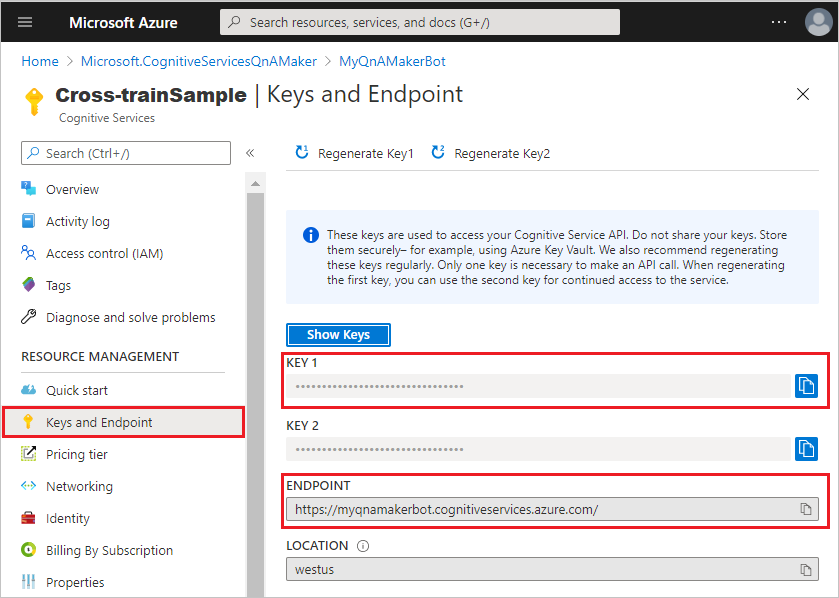
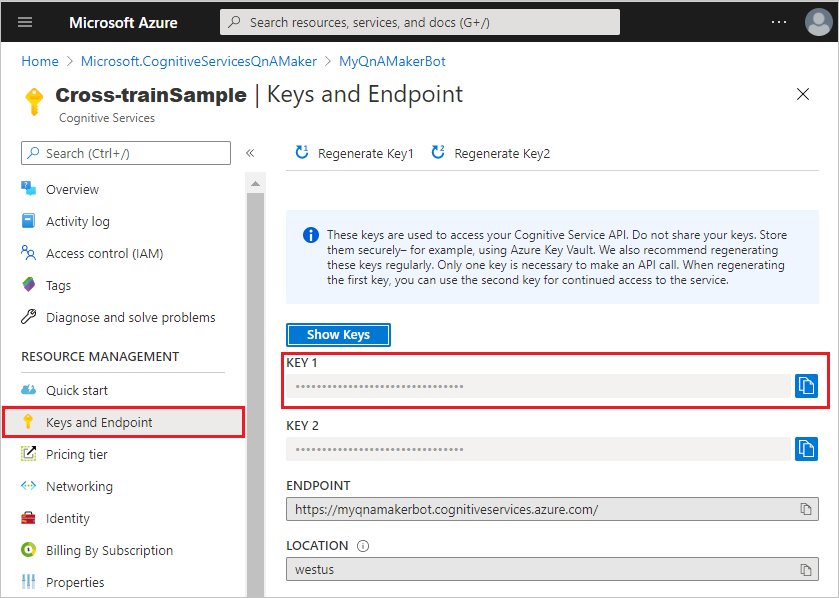
updated to the section on creating the azure cognative resources.

Changed region(s): [[0.3409, 0.7826, 0.9917, 0.903], [0.3099, 0.8127, 0.3409, 0.8729]]

diff --git a/articles/v4sdk/bot-builder-howto-cross-train.md b/articles/v4sdk/bot-builder-howto-cross-train.md
@@ -15,13 +15,13 @@ monikerRange: 'azure-bot-service-4.0'
 
 [!INCLUDE [applies-to-v4](../includes/applies-to.md)]
 
-This how to article will walk you through the steps required to create a bot that integrates the capabilities of both [LUIS][luis] and [QnA Maker][qnamaker] together in order to determine the best possible response to the user, using [Language Generation][language-generation], and tying all these features together into a ToDo bot.
+This how to article will walk you through the steps required to create a bot that integrates the capabilities of both [LUIS][luis] and [QnA Maker][qnamaker] together in order to determine the best possible response to the user, using [language generation][language-generation], and tying all these features together into a ToDo bot.
 
 Integrating the capabilities of both [LUIS][luis] and [QnA Maker][qnamaker] together requires the use of the [CreateCrossTrainedRecognizer][createcrosstrainedrecognizer].
 
 ## Prerequisites
 
-This article will walk you through the steps required to create a fully functional bot using adaptive dialogs. In order to accomplish this, you will need to understand the various concepts involved. Before you begin, you should have a solid basic understanding of the following concepts:
+This article will walk you through the steps required to create a fully functional bot using adaptive dialogs, demonstrated using the [The Todo bot with LUIS and QnA Maker sample](#the-todo-bot-with-luis-and-qna-maker-sample). In order to accomplish this, you will need to understand the various concepts involved. Before you begin, you should have a solid basic understanding of the following concepts:
 
 - [Introduction to adaptive dialogs](bot-builder-adaptive-dialog-introduction.md)
 - [Events and triggers in adaptive dialogs](bot-builder-concept-adaptive-dialog-triggers.md)
@@ -34,10 +34,7 @@ This article will walk you through the steps required to create a fully function
 - [.lu file format][lu-templates]
 - [.qna file format][qna-file-format]
 
-You will also need an Azure account and the sample code:
-
-- If you don't have an Azure subscription, you can [Create your Azure free account]][create-azure-account] before you begin.
-- For sample code, this article references the adaptive **Todo bot with LUIS and QnA Maker** sample in [**C#**](https://aka.ms/cs-adaptive-multi-turn-sample).
+You will also need an [Azure account][create-azure-account].
 
 ## What is covered
 
@@ -47,7 +44,6 @@ This article describes how to create a bot that is cross trained to use both LUI
 1. [Create your LUIS authoring resource in Azure Cognitive Services](#create-your-luis-authoring-resource-in-azure)
 1. [Create your QnA Maker resource in Azure Cognitive Services](#create-your-qna-maker-resource-in-azure-cognitive-services)
 1. [Install the Bot Framework SDK CLI](#install-the-bot-framework-cli)
-<!--1. [Create the schema file](#create-the-schema-file)-->
 1. [Generate cross-trained LU models](#generate-cross-trained-lu-models)
 1. [Create and publish LUIS applications using the build command](#create-and-publish-luis-applications-using-the-build-command)
 1. [Create and publish QnA Maker knowledge bases using the build command](#create-and-publish-qna-maker-knowledge-bases-using-the-build-command)
@@ -56,13 +52,13 @@ This article describes how to create a bot that is cross trained to use both LUI
 
 ## The Todo bot with LUIS and QnA Maker sample
 
-The adaptive **Todo bot with LUIS and QnA Maker** ([**C#**](https://aka.ms/cs-adaptive-multi-turn-sample)) sample has five `.lu` files, six `.qna` files and six `.lg` files. When creating the cross-trained language understanding models you will combine the `.lu` and `.qna` files in a way that will enable you to utilize the capabilities of both LUIS and QnA Maker together in the same recognizer, enabling you to train the recognizer how best to interpret and respond to a users request. After running the cross-train command you will have the same number of each file, but they will be updated so that the `.lu` file contains the required `.qna` information and the `.qna` files contains the required `.lu` information to enable the [Cross-trained recognizer set][crosstrainedrecognizerset] to work.
+The adaptive **Todo bot with LUIS and QnA Maker** ([**C#**][cs-sample]) sample has five `.lu` files, six `.qna` files and six `.lg` files. When creating the cross-trained language understanding models you will combine the `.lu` and `.qna` files in a way that will enable you to utilize the capabilities of both LUIS and QnA Maker together in the same recognizer, enabling you to train the recognizer how best to interpret and respond to a users request. After running the cross-train command you will have the same number of each file, but they will be updated so that the `.lu` file contains the required `.qna` information and the `.qna` files contains the required `.lu` information to enable the [Cross-trained recognizer set][crosstrainedrecognizerset] to work.
 
 To clone the samples repository, enter the following git command from a console window: `git clone https://github.com/Microsoft/botbuilder-samples.git`
 
 ## Create your LUIS authoring resource in Azure
 
-The LUIS authoring resource is an [Azure Cognitive Services][cognitive-services-overview] resource that you create using Azure's [Create LUIS Cognitive Services][create-cognitive-services-luis] page. You can think of this as a container for your LUIS applications and the model, or models that those LUIS applications are comprised of. The LUIS authoring resource provides a secure way to author your LUIS resources.  You need this to be able to perform the tasks such as create, update, train, and publish a LUIS application that are required to enable LUIS functionality in your bot.
+If you don't already have a LUIS authoring resource you want to use for this, you can follow the steps below to create one. For an in-depth explanation of this process, see the article [Deploy LUIS resources using the Bot Framework LUIS CLI commands][create-your-luis-authoring-resource-in-azure].
 
 1. Go to the Azure [Create LUIS Cognitive Services][create-cognitive-services-luis] page.  
 2. In the **Create options** section, select **Authoring** to create a LUIS authoring resource.
@@ -73,47 +69,28 @@ The LUIS authoring resource is an [Azure Cognitive Services][cognitive-services-
 
    ![Set Create cognitive services image](./media/adaptive-dialogs/create-cognitive-services-cross-trainsample.png)
 
-    > [!NOTE]
-    > When entering the **Resource Group** and **Name**, keep in mind that you cannot change these values later. Also note that the value you give for **Name** is not only the name of your LUIS service, it is also the custom domain name in your endpoint and will be part of your **Endpoint URL**.
-
 4. Review the values to ensure they are correct, then select the **Create** button.
 
-The LUIS authoring resource includes information needed to create or access your LUIS application:
+The LUIS authoring resource will contain the information needed when running the [build command](#create-and-publish-luis-applications-using-the-build-command) or updating your bots [configuration file](#update-your-projects-configuration-file-to-include-connection-information-for-luis-and-qna-maker). Once the resource is created, you can find the following information in the **Keys and Endpoint** blade in your LUIS authoring resource:
 
-- **Keys**. These are generally referred  to as _subscription keys_. You may also see them referred to as _authoring keys_ since they refer to keys in the LUIS authoring resource as opposed to the [LUIS prediction resource][luis-prediction-resource]. These keys are auto generated. You will need an authoring key when referencing your LUIS authoring resource for any action, such as when creating your LUIS Application. You can find the keys in the **Keys and Endpoint** blade in your LUIS authoring resource.
-- **Endpoint**. This is auto-generated using the LUIS authoring resource name that you provide when creating it. It has the following format: `https://<luis-resource-name>.cognitiveservices.azure.com/`. When referencing your LUIS authoring resource for any action, such as when creating your LUIS App and Models which will be detailed in this article. You can find the key in the **Keys and Endpoint** blade in your LUIS authoring resource.
-- **Location**.   This is the Azure region that contains your LUIS authoring resource. You select this when creating the LUIS authoring resource.
+- **Keys**. Either of the two key values are used as the _subscriptionKey_ option in the [build command](#create-and-publish-luis-applications-using-the-build-command), as well as the _LuisAPIKey_ in your [configuration file](#update-your-projects-configuration-file-to-include-connection-information-for-luis-and-qna-maker).
+- **Endpoint**. This is the value that is used as the _endpoint_ option in the [build command](#create-and-publish-luis-applications-using-the-build-command), as well as the _LuisAPIHostName_ in your [configuration file](#update-your-projects-configuration-file-to-include-connection-information-for-luis-and-qna-maker).
+- **Location**.   This is the value that is used as the _region_ option in the [build command](#create-and-publish-luis-applications-using-the-build-command).
 
    ![Keys and endpoint for LUIS resource in Azure](./media/adaptive-dialogs/keys-and-endpoint-cross-train.png)
 
-> [!TIP]
->
-> There are two types of subscription keys associated with a LUIS resource, depending on which type of [LUIS resource][luis-prediction-resource] you are referring to. There is the LUIS _authoring_ resource described in this section, which has an _authoring key_. There is also the LUIS _prediction_ resource, which has a _prediction key_. both are _subscription keys_ and both are in the _Keys and endpoint_ blade.
-
 ## Create your QnA Maker resource in Azure Cognitive Services
 
-Like the LUIS resource, the QnA Maker resource is also an [Azure Cognitive Services][cognitive-services-overview] resource that you create using Azure's [Create Qna Maker Cognitive Services][create-cognitive-services-qnamaker] page. This provides the security keys and endpoint needed to access your QnA Maker KB in Azure.
+If you don't already have a QnA Maker resource, you can follow the steps below to create one. For an in-depth explanation of this process, see the article [Deploy QnA Maker knowledge base using the Bot Framework qnamaker CLI commands][create-your-qna-maker-resource-in-azure-cognitive-services].
 
 1. Go to the Azure [Create Qna Maker Cognitive Services][create-cognitive-services-qnamaker] page.
 2. Enter values for each of the fields, then select the **Review + create** button.
 
    ![Create your QnA Maker knowledge base in Azure](./media/adaptive-dialogs/create-qna-maker-cross-trainsample.png)
 
-    > [!NOTE]
-    > When entering the **Resource Group** and **Name**, keep in mind that you cannot change these values later. Also note that the value you give for **Name** is not only the name of your QnA Maker service, it is also the custom domain name in your endpoint and will be part of your **Endpoint URL**.
-
 3. Review the values to ensure they are correct, then select the **Create** button.
 
-The QnA Maker resource includes information your bot will use to access your QnA Maker knowledge base:
-
-- **Keys**. These are _subscription keys_ and are auto-generated. You will need the subscription key when referencing your QnA Maker resource for any action, such as when creating or updating your QnA Maker Knowledge Base. You can find the keys in the **Keys and Endpoint** blade in your QnA Maker resource.
-- **Endpoint**. This is auto-generated using the QnA Maker resource name that you provide when creating it. It has the following format: `https://<qnamaker-resource-name>.cognitiveservices.azure.com/`. When referencing your QnA Maker resource for any action, such as when creating your QnA Maker Knowledge Base. You can find the key in the **Keys and Endpoint** blade in your QnA Maker resource.
-
-    > [!TIP]
-    >
-    > It is important to understand the difference between this QnA Maker resource authoring endpoint which is referenced in all BF CLI qnamaker authoring commands and the QnA Maker Knowledge base endpoint key which is referenced in a source code configuration files such as appsettings.json in C#, or `.env` in JavaScript or `config.py` in Python.
-
-- **Location**. This is the Azure region that contains your QnA Maker Knowledge Base. You select this when creating the QnA Maker resource.
+The QnA Maker resource will contain the value needed for the _subscriptionKey_ option used when running the [build command](#create-and-publish-qna-maker-knowledge-bases-using-the-build-command):
 
    ![Keys and endpoint for QnA Maker resource in Azure](./media/adaptive-dialogs/qna-maker-keys-and-endpoint-cross-trainsample.png)
 
@@ -127,7 +104,7 @@ The QnA Maker resource includes information your bot will use to access your QnA
 
 Before running the build command to create your LUIS application in Azure cognitive services, you need to modify your `.lu` files to include the information required to enable it to defer user input to QnA Maker which it does by creating a new `DeferToRecognizer` intent which is created using the following format: `DeferToRecognizer_<recognizer-type>_<dialog-name>`. For example, in **RootDialog.lu** the new intent would be `DeferToRecognizer_QnA_RootDialog`, and it will contain the questions from **RootDialog.qna** as its user utterances. When a user asks any of these questions the bot will direct it to the [QnA Maker Recognizer][qna-maker-recognizer] for processing. Note also that **RootDialog.qna** references **ChitChat.qna**, and the contents of that referenced file will also be included in the new cross-trained **RootDialog.lu** file.
 
-To create the cross-trained files, both `.lu`  and `.qna`, you can use either the BF CLI `luis:cross-train` or `qnamaker:cross-train` commands. The following demonstrates using the `luis:cross-train` command:
+To create the cross-trained files, both `.lu`  and `.qna`, you can use either the BF CLI `luis:cross-train` or `qnamaker:cross-train` command. The following demonstrates using the `luis:cross-train` command:
 
 ``` cli
 bf luis:cross-train -i <input-folder-name> -o <output-file-name> --config <cross-train-configuration-file>
@@ -182,7 +159,7 @@ Once finished you will have cross-trained versions of the five `.lu` files and s
 
 > [!IMPORTANT]
 >
-> You need to run either the `luis:cross-train` command or the `qnamaker:cross-train` command, you do not need to run both. by running `luis:cross-train`, all of the required cross-train information will be included in the resulting `.lu` files. Running both will work, but is unnecessary.
+> You need to run either the `luis:cross-train` command or the `qnamaker:cross-train` command, you do not need to run both. by running `luis:cross-train`, all of the required cross-train information will be included in the resulting `.lu` and `.qna` files. Running both will work, but is unnecessary.
 
 ## Create and publish LUIS applications using the build command
 
@@ -465,7 +442,7 @@ The configuration file **.env** explained:
 
 - [Visual Studio 2019 or later](https://www.visualstudio.com/downloads) or [Visual Studio Code](https://code.visualstudio.com/Download)
 - [.NET Core 3.1](https://dotnet.microsoft.com/download)
-- The [Todo bot with LUIS and QnA Maker](https://aka.ms/cs-adaptive-multi-turn-sample) sample.
+- The [Todo bot with LUIS and QnA Maker][cs-sample] sample.
 - [Bot Framework Emulator](https://aka.ms/bot-framework-emulator-readme)
 
 ## Build and run the bot locally
@@ -555,6 +532,8 @@ You can now interact with your bot.
 [cs-sample]: https://aka.ms/csharp-adaptive-dialog-08-todo-bot-luis-qnamaker-sample
 [lu-templates]: ../file-format/bot-builder-lu-file-format.md
 [qna-file-format]: ../file-format/bot-builder-qna-file-format.md
+[create-your-luis-authoring-resource-in-azure]: bot-builder-howto-bf-cli-deploy-luis.md#create-your-luis-authoring-resource-in-azure
+[create-your-qna-maker-resource-in-azure-cognitive-services]: bot-builder-howto-bf-cli-deploy-qna.md#create-your-qna-maker-resource-in-azure-cognitive-services
 
 [bot-channels-registration]: ../bot-service-quickstart-registration.md
 
@@ -565,7 +544,7 @@ You can now interact with your bot.
 [luis-prediction-resource]: azure/cognitive-services/luis/luis-how-to-azure-subscription#luis-resources
 [deploy-luis-using-bf-cli-commands]: bot-builder-howto-bf-cli-deploy-luis.md
 
-
+[language-generation]: bot-builder-concept-adaptive-dialog-generators.md
 [create-cognitive-services-luis]: https://portal.azure.com/#create/Microsoft.CognitiveServicesLUISAllInOne
 [create-cognitive-services-qnamaker]: https://portal.azure.com/#create/Microsoft.CognitiveServicesQnAMaker
 
